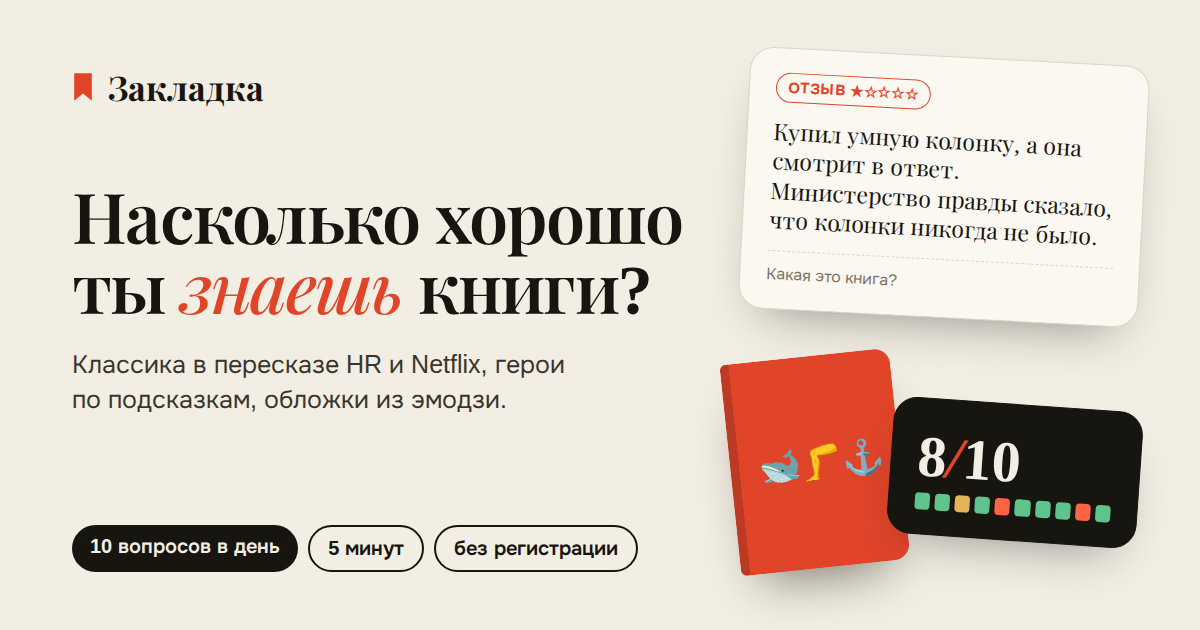
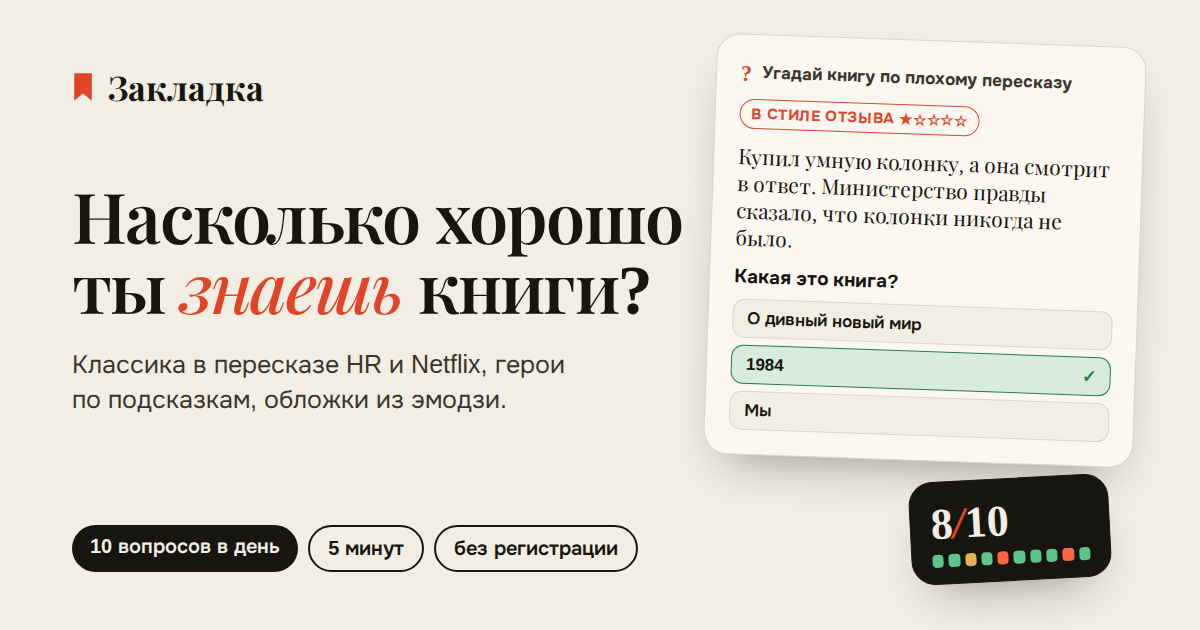
Превью: карточка явно выглядит как вопрос игры
Подпись «Угадай книгу по плохому пересказу», плашка «в стиле отзыва»,
вопрос «Какая это книга?» и варианты с отмеченным ответом «1984».

Claude-Session: https://claude.ai/code/session_017JwjdEakiw83D7akD6yXEo

Changed region(s): [[0.5858, 0.0905, 0.9558, 0.9651]]

diff --git a/scripts/og/og.html b/scripts/og/og.html
@@ -20,17 +20,24 @@
   .pill.l { background: transparent; color: #17150f; border: 2px solid #17150f; }
   .card { position: absolute; background: #fbf8f2; border: 1px solid #ddd4c4; border-radius: 24px; padding: 24px 26px; box-shadow: 0 24px 50px -24px rgba(23,21,15,.45); }
   .tag { display: inline-block; font-size: 15px; font-weight: 700; letter-spacing: .04em; text-transform: uppercase; color: #e0452a; border: 1.5px solid #e0452a; border-radius: 999px; padding: 4px 11px; }
-  .c1 { right: 56px; top: 56px; width: 400px; transform: rotate(3deg); }
-  .c1 p { font-family: 'PF'; font-size: 23px; line-height: 1.28; margin-top: 14px; }
+  .c1 { right: 60px; top: 40px; width: 430px; transform: rotate(2deg); padding: 22px 24px 24px; }
+  .mode { display: flex; align-items: center; gap: 10px; font-size: 17px; font-weight: 700; color: #3a352c; margin-bottom: 12px; }
+  .mode b { color: #e0452a; font-family: 'PF'; font-size: 22px; }
+  .q { font-size: 19px; font-weight: 700; margin-top: 14px; }
+  .opts { display: grid; gap: 7px; margin-top: 10px; }
+  .opt { display: flex; justify-content: space-between; align-items: center; padding: 8px 14px; border-radius: 12px; border: 1.5px solid #ddd4c4; background: #f3eee4; font-size: 17px; font-weight: 600; }
+  .opt.ok { background: #d7ecdc; border-color: #2c7a4b; }
+  .opt.ok span { color: #2c7a4b; font-weight: 800; }
+  .c1 p { font-family: 'PF'; font-size: 21px; line-height: 1.28; margin-top: 14px; }
   .c1 .ask { font-size: 16px; color: #7a7263; margin-top: 16px; padding-top: 12px; border-top: 1.5px dashed #ddd4c4; }
   .book { position: absolute; right: 300px; top: 356px; width: 170px; height: 212px; white-space: nowrap; font-size: 34px !important; border-radius: 6px 16px 16px 6px;
     background: linear-gradient(90deg, rgba(0,0,0,.16) 0 9px, transparent 9px 15px), #e0452a; display: grid; place-items: center;
     transform: rotate(-6deg); box-shadow: 0 28px 50px -22px rgba(23,21,15,.55); padding-left: 12px; }
-  .c3 { right: 60px; top: 404px; width: 250px; transform: rotate(4deg); background: #17150f; color: #f3eee4; border-color: #17150f; }
-  .c3 .big { font-family: 'PF'; font-size: 58px; font-weight: 700; line-height: 1; }
+  .c3 { right: 90px; top: 478px; width: 200px; padding: 16px 20px; z-index: 2; transform: rotate(-3deg); background: #17150f; color: #f3eee4; border-color: #17150f; }
+  .c3 .big { font-family: 'PF'; font-size: 44px; font-weight: 700; line-height: 1; }
   .c3 .big span { color: #e0452a; font-style: italic; }
   .c3 .grid { display: flex; gap: 5px; margin-top: 12px; }
-  .c3 .grid i { width: 17px; height: 17px; border-radius: 4px; background: #5fc48b; }
+  .c3 .grid i { width: 13px; height: 13px; border-radius: 4px; background: #5fc48b; }
   .c3 .grid i.b { background: #ff6445; } .c3 .grid i.h { background: #e3b457; }
 </style>
 </head>
@@ -43,11 +50,16 @@
   <div class="pills"><span class="pill">10 вопросов в день</span><span class="pill l">5 минут</span><span class="pill l">без регистрации</span></div>
 
   <div class="card c1">
-    <span class="tag">Отзыв ★☆☆☆☆</span>
+    <div class="mode"><b>?</b> Угадай книгу по плохому пересказу</div>
+    <span class="tag">в стиле отзыва ★☆☆☆☆</span>
     <p>Купил умную колонку, а она смотрит в ответ. Министерство правды сказало, что колонки никогда не было.</p>
-    <div class="ask">Какая это книга?</div>
+    <div class="q">Какая это книга?</div>
+    <div class="opts">
+      <div class="opt">О дивный новый мир</div>
+      <div class="opt ok">1984 <span>✓</span></div>
+      <div class="opt">Мы</div>
+    </div>
   </div>
-  <div class="book">🐋🦵⚓</div>
   <div class="card c3">
     <div class="big">8<span>/</span>10</div>
     <div class="grid"><i></i><i></i><i class="h"></i><i></i><i class="b"></i><i></i><i></i><i></i><i class="b"></i><i></i></div>
